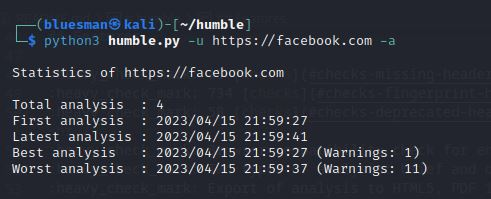
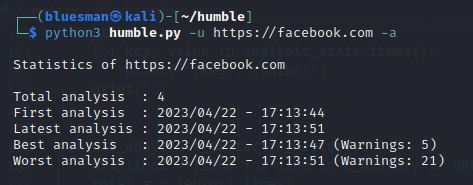
'url_anayltics_extract' function improved

diff --git a/humble.py b/humble.py
@@ -176,7 +176,7 @@ def url_analytics():
     with open(analysis_h_file, 'r', encoding='utf8') as c_history:
         analysis_stats = url_anayltics_extract(c_history)
     print("")
-    print(f"{get_detail('[stats_analysis]')}{URL}".replace("\n", ""))
+    print(f"{get_history_detail('[stats_analysis]')}{URL}")
     print("")
     for key, value in analysis_stats.items():
         print(f"{key}: {value}")
@@ -186,32 +186,27 @@ def url_analytics():
 def url_anayltics_extract(c_history):
     url_lines = [line for line in c_history if URL in line]
     total_a = len(url_lines)
-    first_a = min(f"{line.split(' ; ')[0].replace(' -', '')}" for line in
-                  url_lines)
-    latest_a = max(f"{line.split(' ; ')[0].replace(' -', '')}" for line in
-                   url_lines)
-    date_warning = [(datetime.strptime(line.strip().split(" ; ")
-                                       [0].replace('-', '/').
-                                       replace(' / ', ' '),
-                                       '%Y/%m/%d %H:%M:%S'),
-                    int(line.strip().split(" ; ")[-1])) for line in
-                    url_lines]
-    best_date, best_w = min(date_warning, key=lambda x: x[1])
-    worst_date, worst_w = max(date_warning, key=lambda x: x[1])
+    if url_lines:
+        first_a = min(f"{line.split(' ; ')[0]}" for line in url_lines)
+        latest_a = max(f"{line.split(' ; ')[0]}" for line in url_lines)
+        date_warning = [(line.split(" ; ")[0],
+                         int(line.strip().split(" ; ")[-1])) for line in
+                        url_lines]
+        best_date, best_w = min(date_warning, key=lambda x: x[1])
+        worst_date, worst_w = max(date_warning, key=lambda x: x[1])
+    else:
+        print("")
+        print(get_detail('[no_analysis]'))
+        print("")
+        sys.exit()
     return {
-        get_detail('[total_analysis]').replace("\n", ""): total_a,
-        get_detail('[first_analysis_a]').replace("\n", ""): first_a,
-        get_detail('[latest_analysis]').replace("\n", ""): latest_a,
-        get_detail('[best_analysis]').replace(
-            "\n", ""
-        ): f"{best_date.strftime('%Y/%m/%d %H:%M:%S')} "
-        + get_detail('[total_warnings]').replace("\n", "") + str(best_w) + ")",
-        get_detail('[worst_analysis]').replace(
-            "\n", ""
-        ): f"{worst_date.strftime('%Y/%m/%d %H:%M:%S')} "
-        + get_detail('[total_warnings]').replace("\n", "") +
-        str(worst_w) + ")",
-    }
+        get_history_detail('[total_analysis]'): total_a,
+        get_history_detail('[first_analysis_a]'): first_a,
+        get_history_detail('[latest_analysis]'): latest_a,
+        get_history_detail('[best_analysis]'): f"{best_date} "
+        + get_history_detail('[total_warnings]') + str(best_w) + ")",
+        get_history_detail('[worst_analysis]'): f"{worst_date} "
+        + get_history_detail('[total_warnings]') + str(worst_w) + ")", }
 
 
 def analysis_time():
@@ -343,6 +338,12 @@ def get_detail(id_mode):
             return details_f[i+1]
 
 
+def get_history_detail(id_mode):
+    for i, line in enumerate(details_f):
+        if line.startswith(id_mode):
+            return (details_f[i+1].replace('\n', ''))
+
+
 def python_ver():
     if sys.version_info < (3, 9):
         print("")
@@ -465,6 +466,10 @@ if args.guides:
     print_guides()
     sys.exit()
 
+if args.URL_A:
+    url_analytics()
+    sys.exit()
+
 start = time()
 
 # https://github.com/rfc-st/humble/blob/master/CODE_OF_CONDUCT.md#update-20220326
@@ -506,10 +511,6 @@ AppleWebKit/537.36 (KHTML, like Gecko) Chrome/111.0.0.0 Safari/537.36'}
 requests.packages.urllib3.disable_warnings()
 r = requests.get(URL, verify=False, headers=c_headers, timeout=15)
 headers = r.headers
-
-if args.URL_A:
-    url_analytics()
-    sys.exit()
 
 # Export analysis
 date_now = datetime.now().strftime("%Y%m%d")
